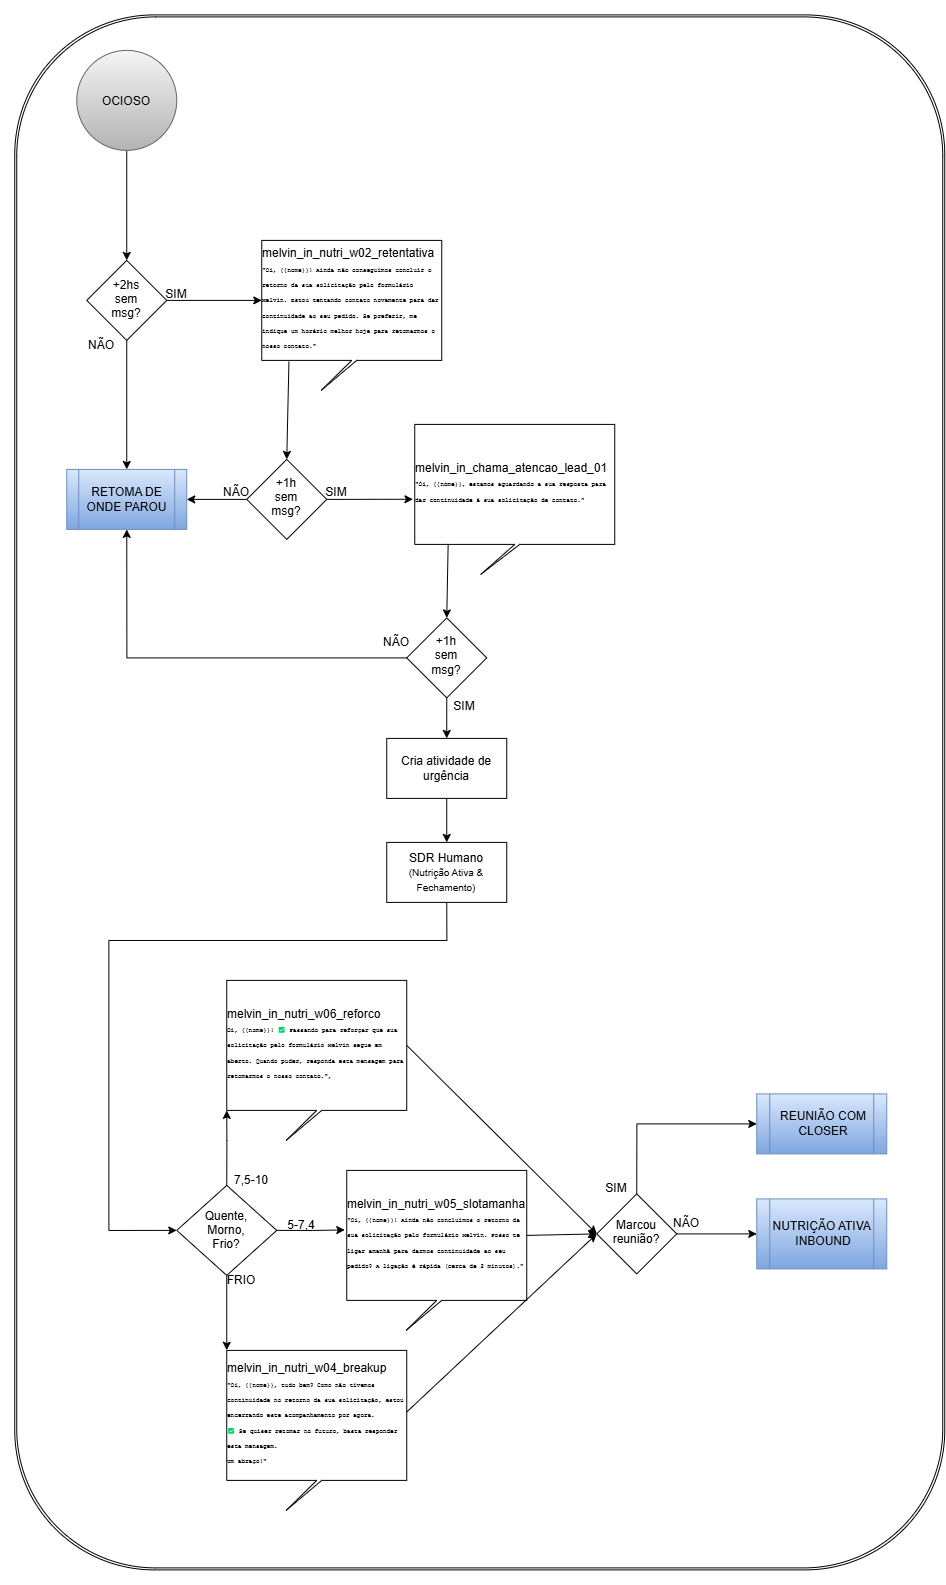
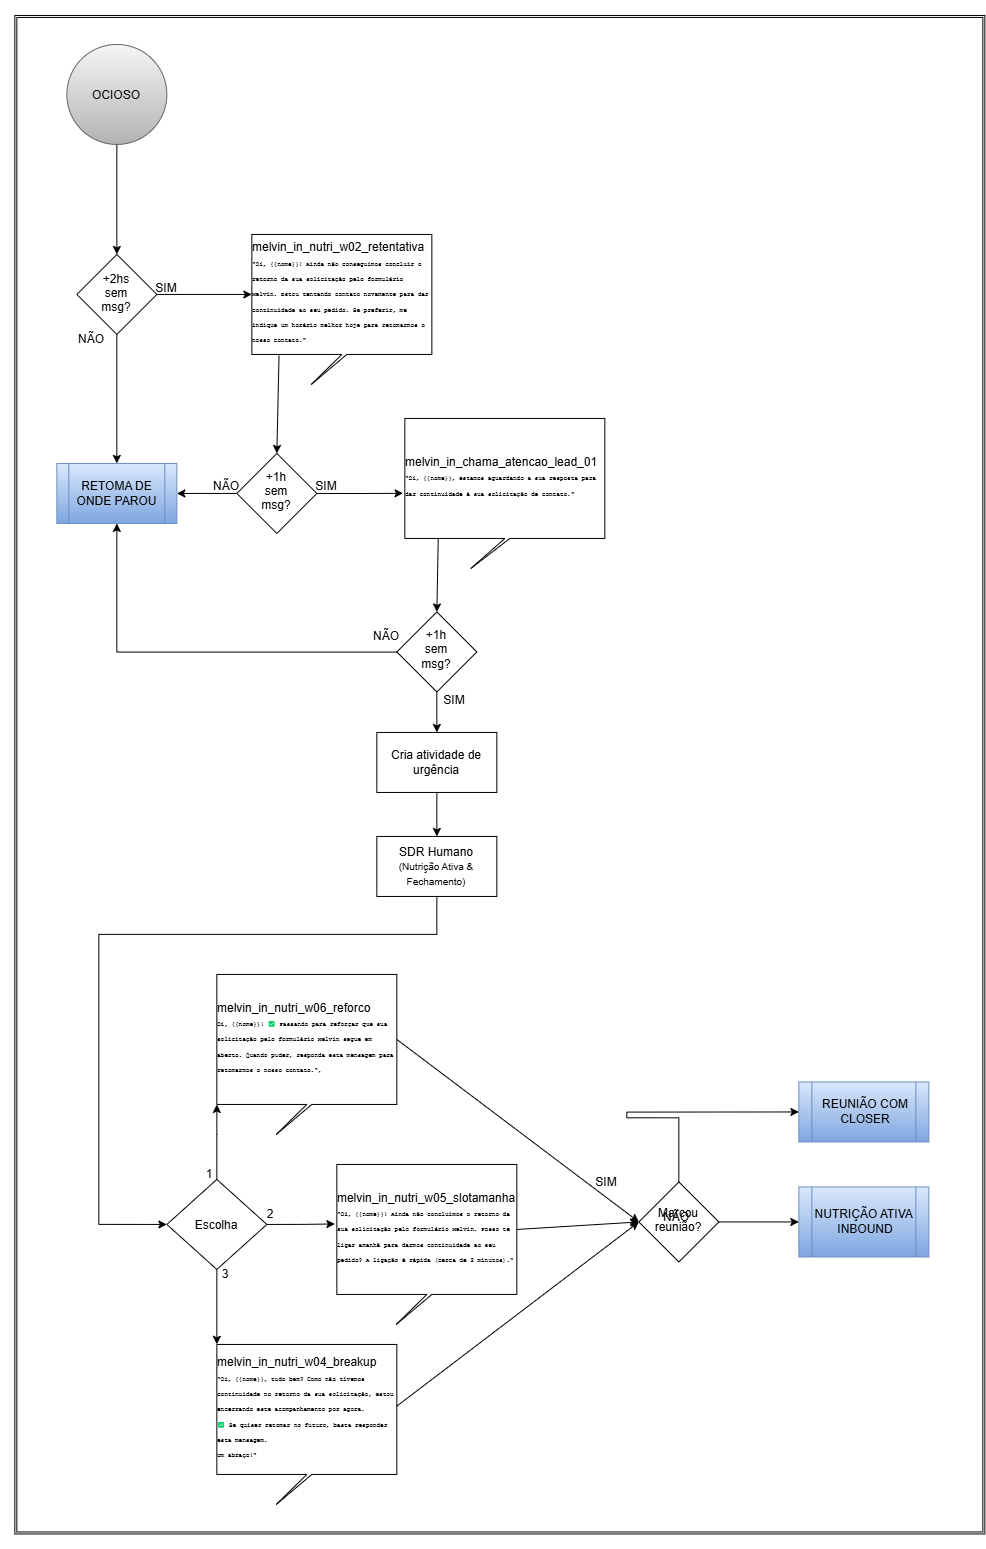
Refresh SDR IA flow with the latest meeting diagram.

diff --git a/index.html b/index.html
@@ -6,7 +6,7 @@
     <title>REBUILD 7 | MELVIN</title>
     
 	<link rel="icon" type="image/png" href="logo_simples_removebcg.png">
-  <link rel="stylesheet" href="styles.css?v=matriz-38">
+  <link rel="stylesheet" href="styles.css?v=matriz-39">
 	<link rel="preconnect" href="https://fonts.googleapis.com">
 	<link rel="preconnect" href="https://fonts.gstatic.com" crossorigin>
 	<link href="https://fonts.googleapis.com/css2?family=Manrope:wght@400;500;600;700;800&family=Sora:wght@600;700;800&family=Carlito:ital,wght@0,400;0,700;1,400&family=Libre+Baskerville:wght@400;700&display=swap" rel="stylesheet">
@@ -8362,7 +8362,7 @@ Um abraço!"
 
             <div class="cadencia-header-block" style="margin-bottom: 18px;">
                 <div class="cadencia-title-line" style="font-size: 1.8rem; color: #10b981;">FLUXO COMERCIAL INBOUND · SDR IA</div>
-                <p class="cadencia-subtitle" style="padding-left: 0;">Diagrama <strong>oficial</strong> atualizado na reunião — lead sem score, lead com score e ocioso/nutrição. Zoom e arraste no quadro.</p>
+                <p class="cadencia-subtitle" style="padding-left: 0;">Diagrama <strong>oficial</strong> da reunião — lead sem score, lead com score e ocioso (retoma / 3 opções do SDR humano). Zoom e arraste no quadro.</p>
                 <div class="gim-source-chip">Fonte: Fluxo SDR IA.drawio</div>
             </div>
 
@@ -8396,7 +8396,7 @@ Um abraço!"
                             alt="Fluxo Comercial Inbound SDR IA — Processo 1 Lead sem score"
                             draggable="false"
                             width="1416"
-                            height="788"
+                            height="881"
                         />
                         <svg class="fluxo-pdf-wires" id="fluxoSdrIaPathSvg" aria-hidden="true"></svg>
                         <div class="fluxo-pdf-hots" id="fluxoSdrIaHots" aria-hidden="false"></div>
@@ -13795,8 +13795,8 @@ Um abraço!"
         </section>
 
 	</main>
-  <script src="app.js?v=matriz-38"></script>
-  <script src="hire-matrix.js?v=matriz-38"></script>
+  <script src="app.js?v=matriz-39"></script>
+  <script src="hire-matrix.js?v=matriz-39"></script>
 	
 </body>
 </html>
